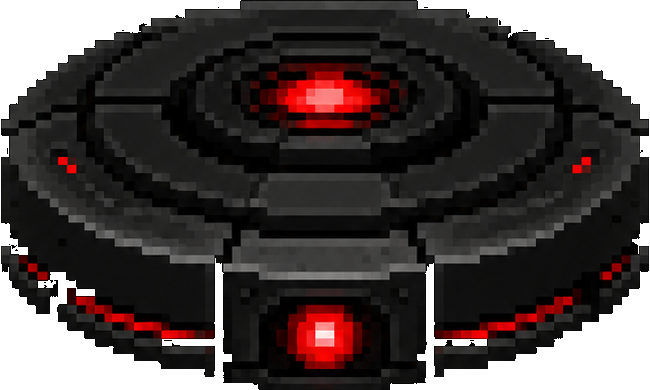
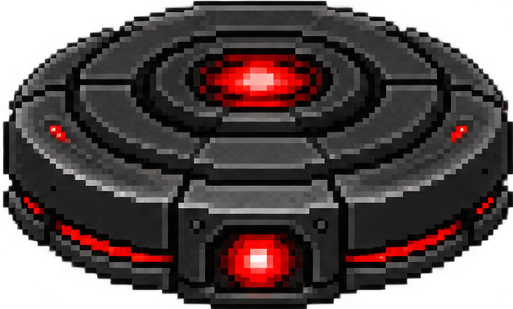
feat: adiciona posicionamento e sprites dos obstáculos

diff --git a/css/style.css b/css/style.css
@@ -214,7 +214,21 @@ main {
 }
 
 .game-obstacle {
-  display: none;
+  position: absolute;
+}
+
+.game-obstacle--mine {
+  height: 50px;
+  bottom: 11vh;
+  right: -150px;
+  z-index: 5;
+}
+
+.game-obstacle--drone {
+  height: 150px;
+  bottom: 40vh;
+  right: -350px;
+  z-index: 6;
 }
 
 .game-ground {
